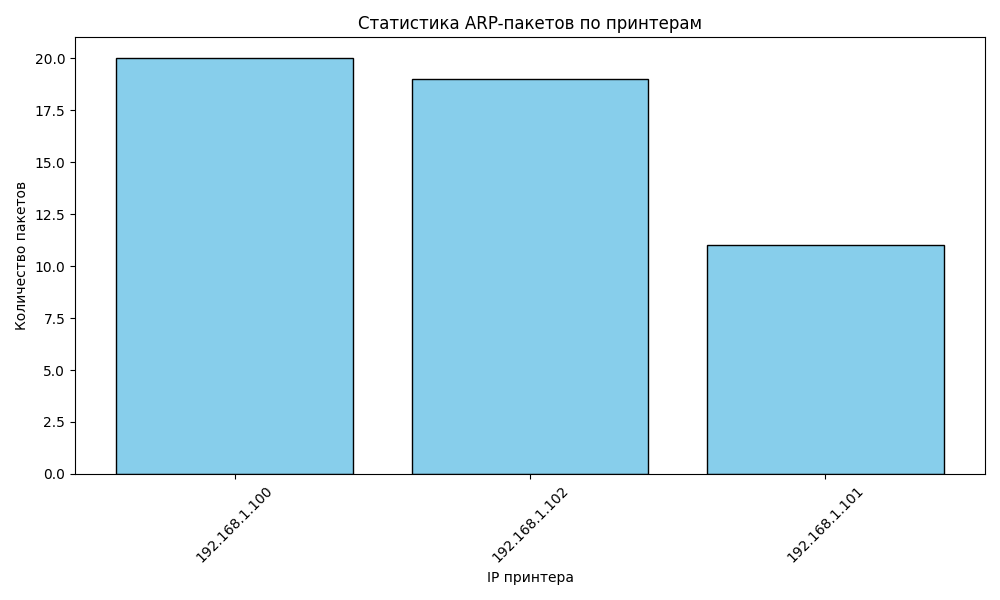
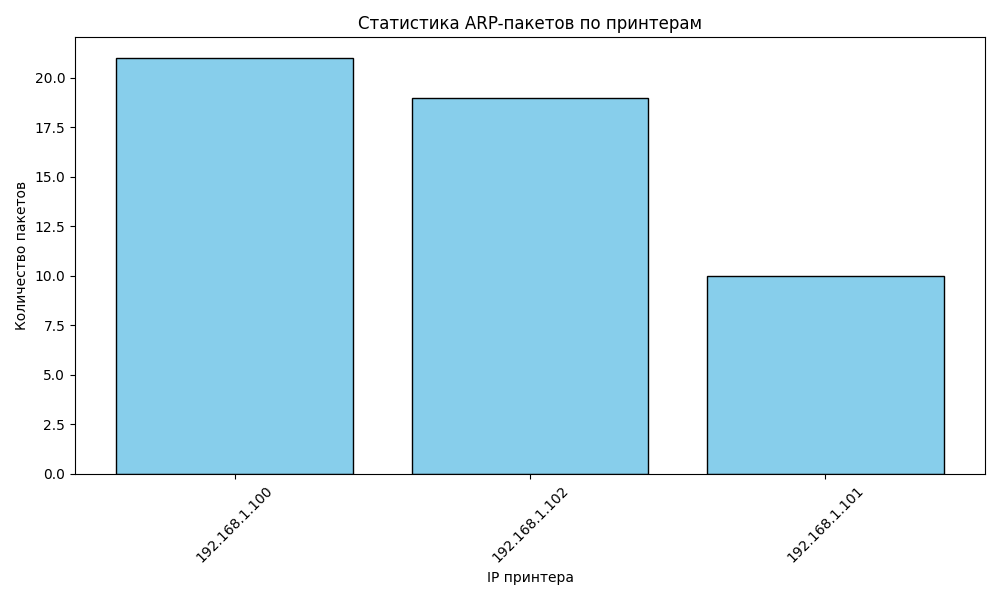
изменение3

diff --git a/lr.py b/lr.py
@@ -122,3 +122,13 @@ def show_tables_and_charts():
 
 
 
+print('='*60)
+print('КОНТЕЙНЕР МОНИТОРИНГА ARP-ТРАФИКА (ЭМУЛЯЦИЯ)')
+print('Для лабораторной работы по УЖЦИС')
+print('='*60)
+print('\nЭмулируем получение ARP-пакетов от принтеров...\n')
+
+emulate_arp_packets(num_packets=50)
+
+show_tables_and_charts()
+
